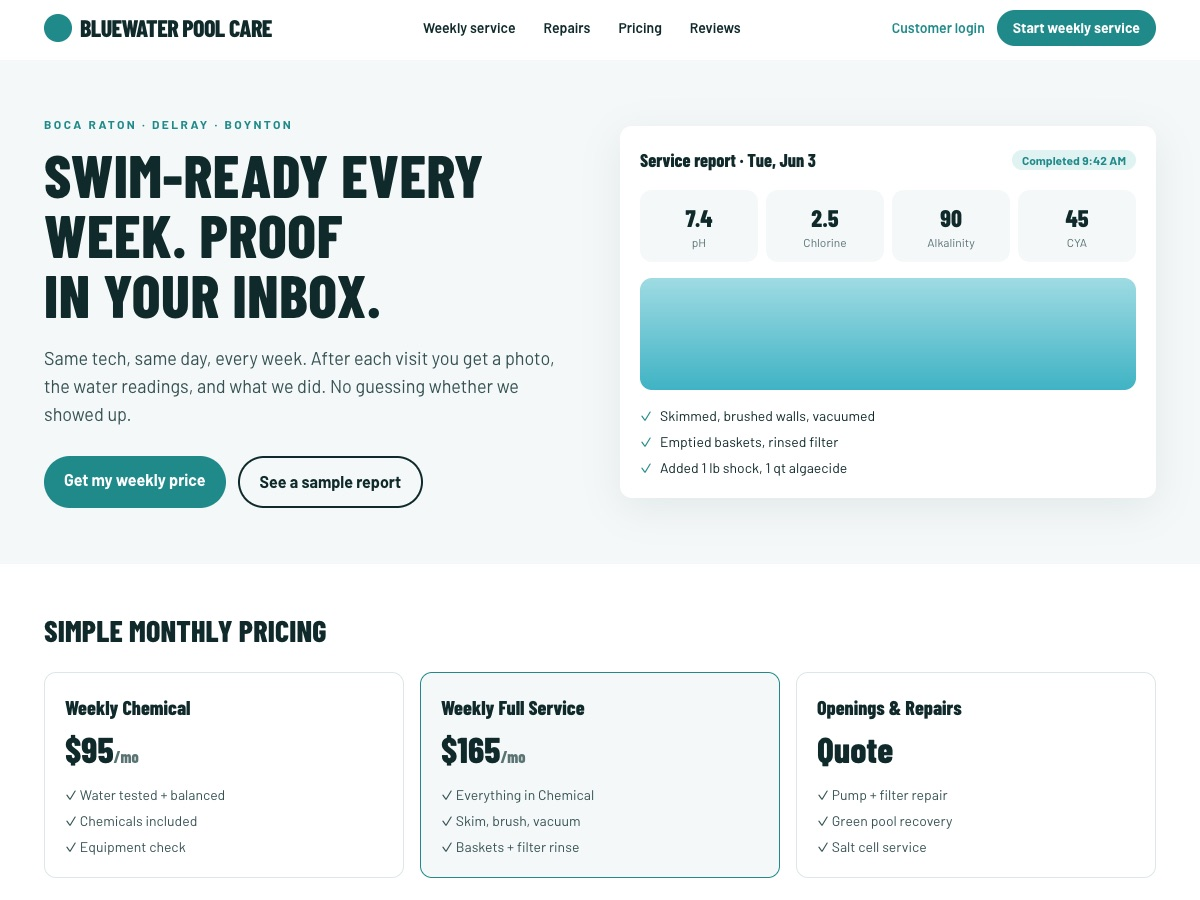
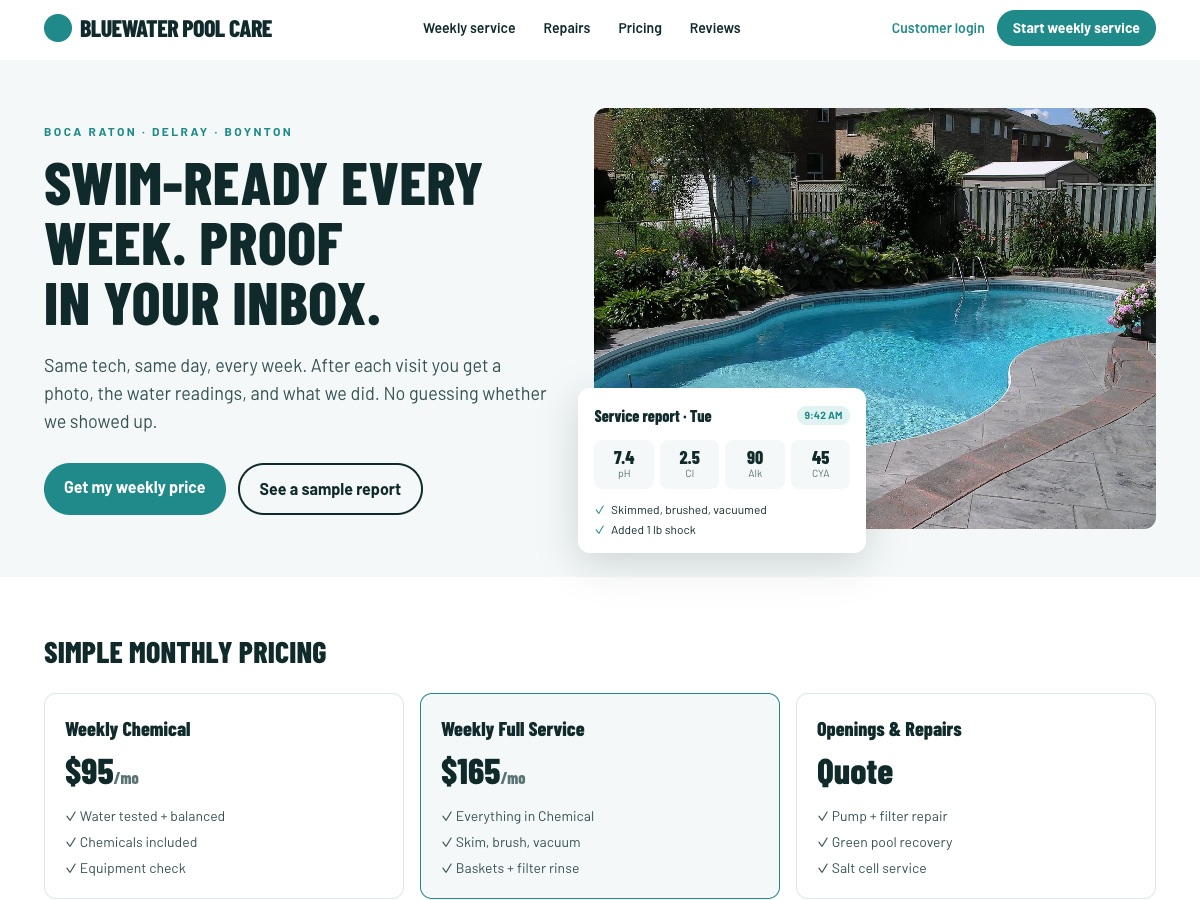
Demo sites: real licensed photos with credits; refreshed showcase screenshots; copy tweak

diff --git a/app/demo/clearline-pressure-washing/page.tsx b/app/demo/clearline-pressure-washing/page.tsx
@@ -1,4 +1,6 @@
 import type { Metadata } from "next";
+import Image from "next/image";
+import { DemoCredits } from "@/components/demo-credits";
 
 export const metadata: Metadata = { title: "Clearline Pressure Washing" };
 
@@ -14,7 +16,7 @@ export default function ClearlineDemo() {
           </span>
           <nav className="hidden gap-7 text-sm font-semibold md:flex">
             <span>Services</span>
-            <span>Before &amp; after</span>
+            <span>Our work</span>
             <span>Reviews</span>
             <span>Areas</span>
           </nav>
@@ -22,14 +24,15 @@ export default function ClearlineDemo() {
         </div>
       </header>
 
-      <section className="bg-[#0b5c8a] text-white">
-        <div className="mx-auto grid max-w-6xl items-center gap-10 px-5 py-14 md:grid-cols-[1.1fr_1fr]">
+      <section className="relative overflow-hidden bg-[#0b5c8a] text-white">
+        <Image src="/demo/pw-action.jpg" alt="" width={1600} height={1060} priority className="absolute inset-0 h-full w-full object-cover opacity-25" />
+        <div className="relative mx-auto grid max-w-6xl items-center gap-10 px-5 py-14 md:grid-cols-[1.1fr_1fr]">
           <div>
             <p className="text-xs font-bold uppercase tracking-[0.2em] text-[#38bdf8]">Licensed &amp; insured · Fort Lauderdale</p>
             <h1 className="mt-3 font-heading text-5xl font-extrabold uppercase leading-none md:text-6xl">
               Your driveway, like the day it was poured.
             </h1>
-            <p className="mt-5 max-w-lg text-lg text-white/85">
+            <p className="mt-5 max-w-lg text-lg text-white/90">
               Send two photos. Get a firm price back the same morning. We show up when we say, and the before-and-after
               speaks for itself.
             </p>
@@ -39,40 +42,47 @@ export default function ClearlineDemo() {
             </div>
             <div className="mt-6 flex items-center gap-2 text-sm">
               <span className="text-[#fbbf24]">&#9733;&#9733;&#9733;&#9733;&#9733;</span>
-              <span className="text-white/80">4.9 from 312 Google reviews</span>
+              <span className="text-white/85">4.9 from 312 Google reviews</span>
             </div>
           </div>
-          <div className="relative overflow-hidden rounded-lg border-4 border-white/20">
-            <div className="grid h-72 grid-cols-2">
-              <div className="relative bg-[linear-gradient(160deg,#6b705c_0%,#4e5340_50%,#3a3d2f_100%)]">
-                <span className="absolute left-3 top-3 rounded bg-black/60 px-2 py-0.5 text-xs font-bold">BEFORE</span>
-              </div>
-              <div className="relative bg-[linear-gradient(160deg,#d6d3cc_0%,#bfbbb2_50%,#a9a59b_100%)]">
-                <span className="absolute right-3 top-3 rounded bg-[#38bdf8] px-2 py-0.5 text-xs font-bold text-[#10202b]">AFTER</span>
-              </div>
-            </div>
-            <div className="absolute inset-y-0 left-1/2 w-1 -translate-x-1/2 bg-white" />
-            <div className="absolute left-1/2 top-1/2 flex h-10 w-10 -translate-x-1/2 -translate-y-1/2 items-center justify-center rounded-full bg-white text-[#10202b]">
-              &#8596;
-            </div>
+          <div className="overflow-hidden rounded-lg border-4 border-white/30 shadow-2xl">
+            <Image src="/demo/pw-action.jpg" alt="Pressure washing in progress" width={1600} height={1060} className="aspect-[4/3] w-full object-cover" />
           </div>
         </div>
       </section>
 
       <section className="mx-auto max-w-6xl px-5 py-12">
-        <div className="flex items-end justify-between">
-          <h2 className="font-heading text-3xl font-extrabold uppercase">What we clean</h2>
-          <span className="text-sm font-semibold text-[#0b5c8a] underline">All services</span>
+        <div className="grid gap-8 md:grid-cols-[1fr_1.2fr] md:items-center">
+          <div className="grid grid-cols-2 gap-3">
+            <div className="relative overflow-hidden rounded-lg">
+              <Image src="/demo/pw-before.jpg" alt="Stained pavement before cleaning" width={800} height={450} className="aspect-square w-full object-cover" />
+              <span className="absolute left-3 top-3 rounded bg-black/70 px-2 py-0.5 text-xs font-bold text-white">BEFORE</span>
+            </div>
+            <div className="relative overflow-hidden rounded-lg">
+              <Image src="/demo/pw-commercial.jpg" alt="Commercial pressure washing" width={800} height={620} className="aspect-square w-full object-cover" />
+              <span className="absolute left-3 top-3 rounded bg-[#38bdf8] px-2 py-0.5 text-xs font-bold text-[#10202b]">COMMERCIAL</span>
+            </div>
+          </div>
+          <div>
+            <h2 className="font-heading text-3xl font-extrabold uppercase">What we clean</h2>
+            <ul className="mt-5 grid gap-3 sm:grid-cols-2">
+              {services.map((s) => (
+                <li key={s} className="flex items-center gap-3 rounded border border-[#dbe4ea] p-3 text-sm font-semibold">
+                  <span className="h-2.5 w-2.5 rounded-full bg-[#38bdf8]" />
+                  {s}
+                </li>
+              ))}
+            </ul>
+          </div>
         </div>
-        <ul className="mt-6 grid gap-3 sm:grid-cols-2 md:grid-cols-3">
-          {services.map((s) => (
-            <li key={s} className="flex items-center gap-3 rounded border border-[#dbe4ea] p-4 font-semibold">
-              <span className="h-2.5 w-2.5 rounded-full bg-[#38bdf8]" />
-              {s}
-            </li>
-          ))}
-        </ul>
       </section>
+      <DemoCredits
+        credits={[
+          { what: "Land Rover being pressure washed", by: "Lewis Collard", license: "CC BY 3.0", href: "https://commons.wikimedia.org/wiki/File:Land_Rover_being_pressure_washed.JPG" },
+          { what: "Soiled granite surface", by: "OathOn", license: "CC BY-SA 4.0", href: "https://commons.wikimedia.org/wiki/File:Heavily_soiled_granite_surface_with_ingrained_dirt_showing_complete_absence_of_pressure_washing_by_Medway_Norse_at_The_Paddock_park,_Chatham,_Kent,_England.jpg" },
+          { what: "High-pressure cleaning", by: "CEphoto, Uwe Aranas", license: "CC BY-SA 3.0", href: "https://commons.wikimedia.org/wiki/File:High-pressure-cleaning-of-a-concrete-floor-in-petrochemical-industry-01.jpg" },
+        ]}
+      />
     </div>
   );
 }

diff --git a/app/demo/route-ready-vending/page.tsx b/app/demo/route-ready-vending/page.tsx
@@ -1,11 +1,13 @@
 import type { Metadata } from "next";
+import Image from "next/image";
+import { DemoCredits } from "@/components/demo-credits";
 
 export const metadata: Metadata = { title: "Route Ready Vending" };
 
 const machines = [
-  { name: "Snack + drink combo", fit: "Breakrooms with 25 to 80 staff", note: "Most popular" },
-  { name: "Cold drink tower", fit: "Gyms, lobbies, warehouses", note: "Card + mobile pay" },
-  { name: "Fresh food cooler", fit: "Offices with 100+ staff", note: "Stocked 3x weekly" },
+  { name: "Snack + drink combo", fit: "Breakrooms with 25 to 80 staff", note: "Most popular", img: "/demo/vending-lobby.jpg", pos: "object-right" },
+  { name: "Snack tower", fit: "Lobbies, waiting rooms, gyms", note: "Card + mobile pay", img: "/demo/vending-snacks.jpg", pos: "object-center" },
+  { name: "Cold drink cooler", fit: "Warehouses and shop floors", note: "Stocked 3x weekly", img: "/demo/vending-lobby.jpg", pos: "object-left" },
 ];
 
 export default function RouteReadyDemo() {
@@ -27,7 +29,7 @@ export default function RouteReadyDemo() {
         </div>
       </header>
 
-      <section className="mx-auto grid max-w-6xl items-center gap-10 px-5 py-14 md:grid-cols-2">
+      <section className="mx-auto grid max-w-6xl items-center gap-10 px-5 py-12 md:grid-cols-[1fr_1.1fr]">
         <div>
           <p className="text-xs font-bold uppercase tracking-[0.2em] text-[#d9531e]">Palm Beach &amp; Broward County</p>
           <h1 className="mt-3 font-heading text-5xl font-extrabold uppercase leading-none md:text-6xl">
@@ -43,44 +45,46 @@ export default function RouteReadyDemo() {
           </div>
           <p className="mt-5 text-sm text-[#6b665c]">No contract. No cost to the location. Commission available for 50+ staff.</p>
         </div>
-        <div className="grid grid-cols-2 gap-3">
-          <div className="row-span-2 rounded-lg bg-[#1c1a17] p-5 text-white">
-            <p className="text-xs font-bold uppercase tracking-[0.2em] text-[#f0a98e]">Placed this year</p>
-            <p className="mt-2 font-heading text-6xl font-extrabold">212</p>
-            <p className="text-sm text-white/70">machines across 140 locations</p>
-            <div className="mt-6 space-y-2 text-sm">
-              <p className="flex justify-between border-t border-white/10 pt-2"><span>Avg restock</span><span className="font-bold">5 days</span></p>
-              <p className="flex justify-between border-t border-white/10 pt-2"><span>Service response</span><span className="font-bold">Same day</span></p>
-              <p className="flex justify-between border-t border-white/10 pt-2"><span>Card + tap pay</span><span className="font-bold">Every machine</span></p>
+        <div className="relative">
+          <Image src="/demo/vending-lobby.jpg" alt="Snack and drink vending machines in an office lobby" width={1600} height={1148} priority className="aspect-[4/3] w-full rounded-lg object-cover" />
+          <div className="absolute -bottom-5 left-5 flex gap-5 rounded-lg bg-[#1c1a17] px-5 py-4 text-white shadow-xl">
+            <div>
+              <p className="font-heading text-3xl font-extrabold leading-none">212</p>
+              <p className="text-xs text-white/70">machines placed</p>
             </div>
-          </div>
-          <div className="rounded-lg border border-[#e8e0d2] bg-white p-4">
-            <p className="text-xs font-bold uppercase tracking-[0.2em] text-[#6b665c]">Snacks</p>
-            <p className="mt-1 font-heading text-2xl font-extrabold">40+ options</p>
-          </div>
-          <div className="rounded-lg border border-[#e8e0d2] bg-white p-4">
-            <p className="text-xs font-bold uppercase tracking-[0.2em] text-[#6b665c]">Drinks</p>
-            <p className="mt-1 font-heading text-2xl font-extrabold">Cold, always</p>
+            <div className="border-l border-white/15 pl-5">
+              <p className="font-heading text-3xl font-extrabold leading-none">Same day</p>
+              <p className="text-xs text-white/70">service response</p>
+            </div>
           </div>
         </div>
       </section>
 
-      <section className="bg-white py-12">
+      <section className="bg-white py-14">
         <div className="mx-auto max-w-6xl px-5">
           <h2 className="font-heading text-3xl font-extrabold uppercase">Pick the machine that fits your space</h2>
           <div className="mt-6 grid gap-4 md:grid-cols-3">
             {machines.map((m) => (
-              <div key={m.name} className="rounded-lg border border-[#e8e0d2] p-5">
-                <div className="flex h-28 items-end rounded bg-[#f1ebe0] p-3">
-                  <span className="rounded bg-[#d9531e] px-2 py-0.5 text-xs font-bold text-white">{m.note}</span>
+              <div key={m.name} className="overflow-hidden rounded-lg border border-[#e8e0d2]">
+                <div className="relative h-40">
+                  <Image src={m.img} alt="" width={800} height={600} className={`h-full w-full object-cover ${m.pos}`} />
+                  <span className="absolute bottom-3 left-3 rounded bg-[#d9531e] px-2 py-0.5 text-xs font-bold text-white">{m.note}</span>
                 </div>
-                <h3 className="mt-4 font-heading text-xl font-extrabold">{m.name}</h3>
-                <p className="mt-1 text-sm text-[#4a463f]">{m.fit}</p>
+                <div className="p-4">
+                  <h3 className="font-heading text-xl font-extrabold">{m.name}</h3>
+                  <p className="mt-1 text-sm text-[#4a463f]">{m.fit}</p>
+                </div>
               </div>
             ))}
           </div>
         </div>
       </section>
+      <DemoCredits
+        credits={[
+          { what: "Vending machines, Chico", by: "Frank Schulenburg", license: "CC BY-SA 4.0", href: "https://commons.wikimedia.org/wiki/File:Soft_drink_and_snack_vending_machines,_Chico_(2025)-L1007024.jpg" },
+          { what: "Snack machine", by: "Nenyedi", license: "Public domain", href: "https://commons.wikimedia.org/wiki/File:Snack_machine_3538.JPG" },
+        ]}
+      />
     </div>
   );
 }

diff --git a/app/demo/bluewater-pool-care/page.tsx b/app/demo/bluewater-pool-care/page.tsx
@@ -1,4 +1,6 @@
 import type { Metadata } from "next";
+import Image from "next/image";
+import { DemoCredits } from "@/components/demo-credits";
 
 export const metadata: Metadata = { title: "Bluewater Pool Care" };
 
@@ -30,7 +32,7 @@ export default function BluewaterDemo() {
         </div>
       </header>
 
-      <section className="mx-auto grid max-w-6xl items-center gap-10 px-5 py-14 md:grid-cols-2">
+      <section className="mx-auto grid max-w-6xl items-center gap-10 px-5 py-12 md:grid-cols-[1fr_1.1fr]">
         <div>
           <p className="text-xs font-bold uppercase tracking-[0.2em] text-[#1f8a8a]">Boca Raton · Delray · Boynton</p>
           <h1 className="mt-3 font-heading text-5xl font-extrabold uppercase leading-none md:text-6xl">
@@ -45,34 +47,35 @@ export default function BluewaterDemo() {
             <span className="rounded-full border-2 border-[#0f2a2a] px-5 py-3 font-bold">See a sample report</span>
           </div>
         </div>
-        <div className="rounded-xl bg-white p-5 shadow-[0_10px_40px_rgba(15,42,42,0.08)]">
-          <div className="flex items-center justify-between">
-            <p className="font-heading text-lg font-extrabold">Service report · Tue, Jun 3</p>
-            <span className="rounded-full bg-[#e0f2f1] px-2.5 py-0.5 text-xs font-bold text-[#1f8a8a]">Completed 9:42 AM</span>
+        <div className="relative">
+          <Image src="/demo/pool-hero.jpg" alt="Clean backyard swimming pool" width={1600} height={1197} priority className="aspect-[4/3] w-full rounded-xl object-cover" />
+          <div className="absolute -bottom-6 -left-4 w-72 rounded-xl bg-white p-4 shadow-[0_10px_40px_rgba(15,42,42,0.18)]">
+            <div className="flex items-center justify-between">
+              <p className="font-heading text-base font-extrabold">Service report · Tue</p>
+              <span className="rounded-full bg-[#e0f2f1] px-2 py-0.5 text-[0.65rem] font-bold text-[#1f8a8a]">9:42 AM</span>
+            </div>
+            <div className="mt-3 grid grid-cols-4 gap-1.5 text-center">
+              {[
+                ["7.4", "pH"],
+                ["2.5", "Cl"],
+                ["90", "Alk"],
+                ["45", "CYA"],
+              ].map(([v, l]) => (
+                <div key={l} className="rounded-md bg-[#f3f8f8] py-2">
+                  <p className="font-heading text-lg font-extrabold leading-none">{v}</p>
+                  <p className="text-[0.65rem] text-[#5a7474]">{l}</p>
+                </div>
+              ))}
+            </div>
+            <ul className="mt-3 space-y-1 text-xs">
+              <li className="flex gap-1.5"><span className="text-[#1f8a8a]">&#10003;</span> Skimmed, brushed, vacuumed</li>
+              <li className="flex gap-1.5"><span className="text-[#1f8a8a]">&#10003;</span> Added 1 lb shock</li>
+            </ul>
           </div>
-          <div className="mt-4 grid grid-cols-4 gap-2 text-center">
-            {[
-              ["7.4", "pH"],
-              ["2.5", "Chlorine"],
-              ["90", "Alkalinity"],
-              ["45", "CYA"],
-            ].map(([v, l]) => (
-              <div key={l} className="rounded-lg bg-[#f3f8f8] py-3">
-                <p className="font-heading text-2xl font-extrabold">{v}</p>
-                <p className="text-xs text-[#5a7474]">{l}</p>
-              </div>
-            ))}
-          </div>
-          <div className="mt-4 h-28 rounded-lg bg-[linear-gradient(180deg,#9fdbe3_0%,#3fb3c4_100%)]" />
-          <ul className="mt-4 space-y-1.5 text-sm">
-            <li className="flex gap-2"><span className="text-[#1f8a8a]">&#10003;</span> Skimmed, brushed walls, vacuumed</li>
-            <li className="flex gap-2"><span className="text-[#1f8a8a]">&#10003;</span> Emptied baskets, rinsed filter</li>
-            <li className="flex gap-2"><span className="text-[#1f8a8a]">&#10003;</span> Added 1 lb shock, 1 qt algaecide</li>
-          </ul>
         </div>
       </section>
 
-      <section className="bg-white py-12">
+      <section className="bg-white py-14">
         <div className="mx-auto max-w-6xl px-5">
           <h2 className="font-heading text-3xl font-extrabold uppercase">Simple monthly pricing</h2>
           <div className="mt-6 grid gap-4 md:grid-cols-3">
@@ -93,6 +96,9 @@ export default function BluewaterDemo() {
           </div>
         </div>
       </section>
+      <DemoCredits
+        credits={[{ what: "Backyard pool", by: "Vic Brincat", license: "CC BY 2.0", href: "https://commons.wikimedia.org/wiki/File:Backyardpool.jpg" }]}
+      />
     </div>
   );
 }

diff --git a/app/(marketing)/industries/page.tsx b/app/(marketing)/industries/page.tsx
@@ -28,8 +28,8 @@ export default function IndustriesPage() {
         <Eyebrow className="mt-6">Industries</Eyebrow>
         <H1>Built for trades that run on the phone.</H1>
         <Lead>
-          We started with vending operators and expanded to the businesses that work the same way: owner-operated,
-          on the road, and ignored by the agencies that chase bigger logos. If your industry is not listed, ask. If it
+          We began with vending operators and now serve the businesses that operate the same way: owner-run,
+          field-based, and overlooked by agencies chasing bigger accounts. If your industry is not listed, ask. If it
           runs on inbound calls and routes, we can build for it.
         </Lead>
       </Section>

diff --git a/app/(marketing)/page.tsx b/app/(marketing)/page.tsx
@@ -116,8 +116,8 @@ export default function HomePage() {
         <Eyebrow className="text-brand-text-on-dark">Industries we serve</Eyebrow>
         <H2>Phone-driven trades. Owner-operated. Under-marketed.</H2>
         <p className="mt-4 max-w-2xl text-lg text-cream/80">
-          We started with vending operators and expanded to the industries that run the same way: on the phone, on the
-          road, and without a marketing department.
+          We began with vending operators and now serve the industries that operate the same way: phone-driven,
+          field-based, and without a dedicated marketing team.
         </p>
         <ul className="mt-8 grid gap-3 sm:grid-cols-2 lg:grid-cols-3">
           {industries.map((i) => (

diff --git a/components/demo-credits.tsx b/components/demo-credits.tsx
@@ -1,0 +1,16 @@
+/** Attribution footer for demo sites using Creative Commons photos. */
+export function DemoCredits({ credits }: { credits: { what: string; by: string; license: string; href: string }[] }) {
+  return (
+    <footer className="border-t border-black/10 px-5 py-4 text-center text-[0.7rem] text-black/50">
+      Demo site by Workhorse Digital. Photos:{" "}
+      {credits.map((c, i) => (
+        <span key={c.href}>
+          <a href={c.href} className="underline" rel="noopener" target="_blank">
+            {c.what}
+          </a>{" "}
+          by {c.by} ({c.license}){i < credits.length - 1 ? "; " : "."}
+        </span>
+      ))}
+    </footer>
+  );
+}
